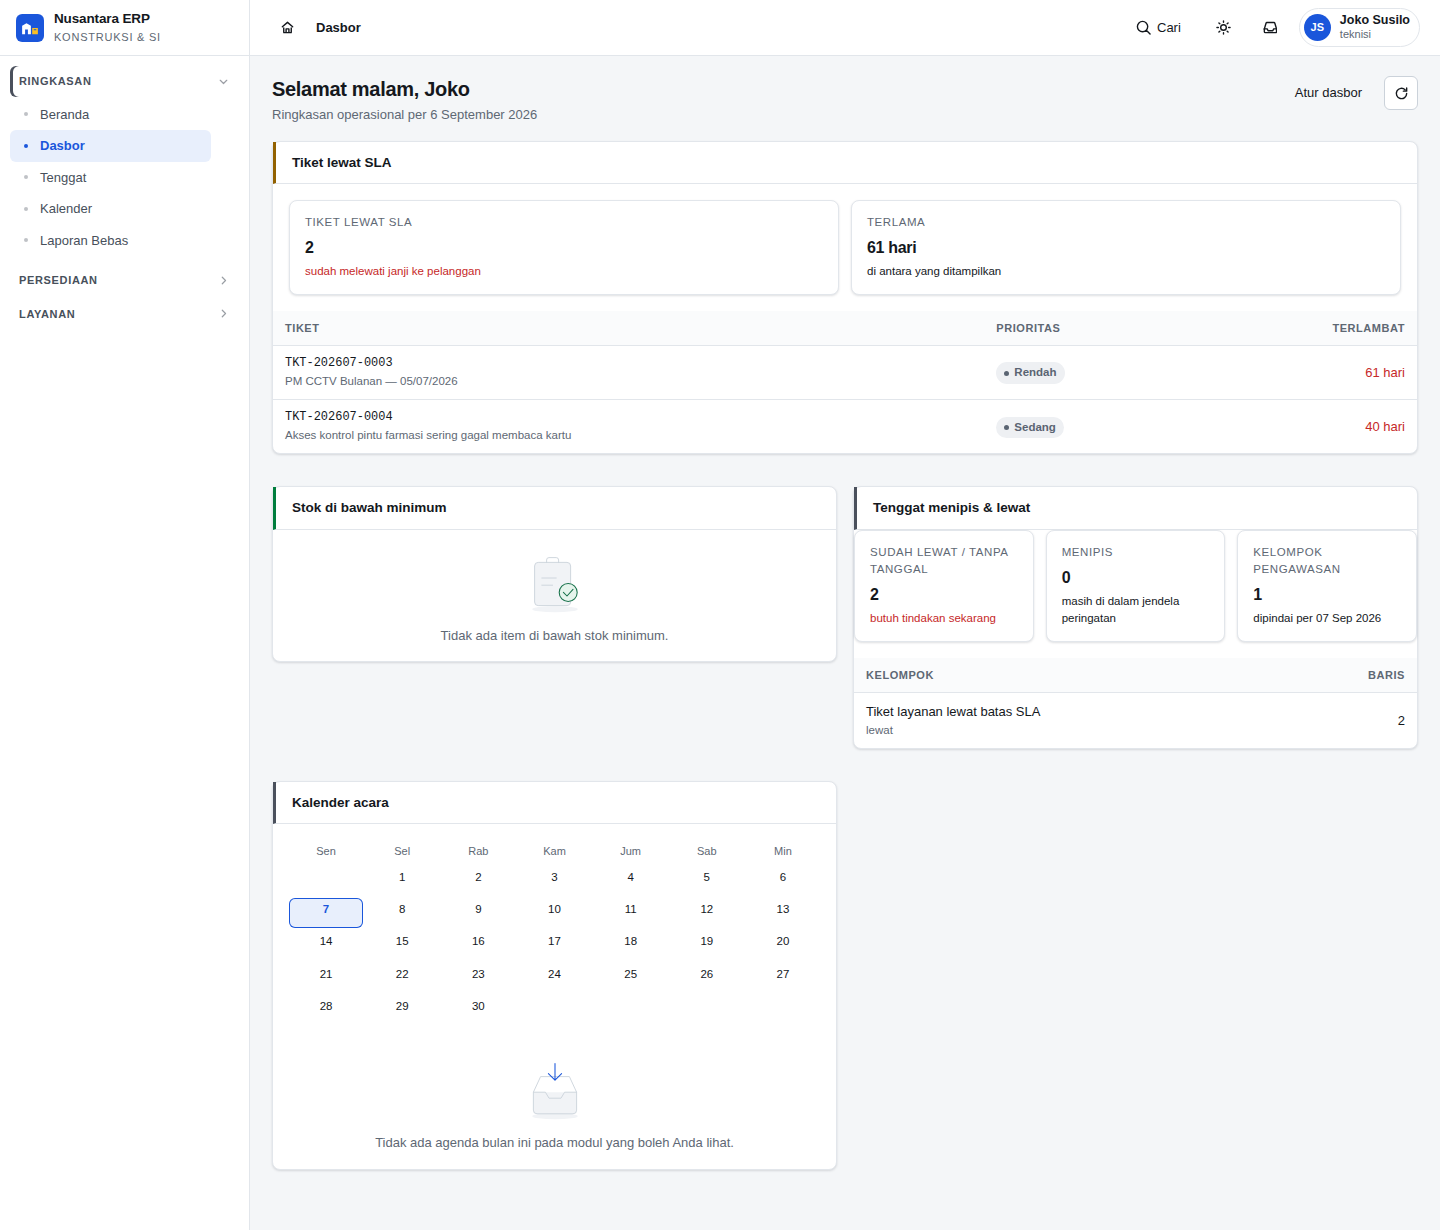
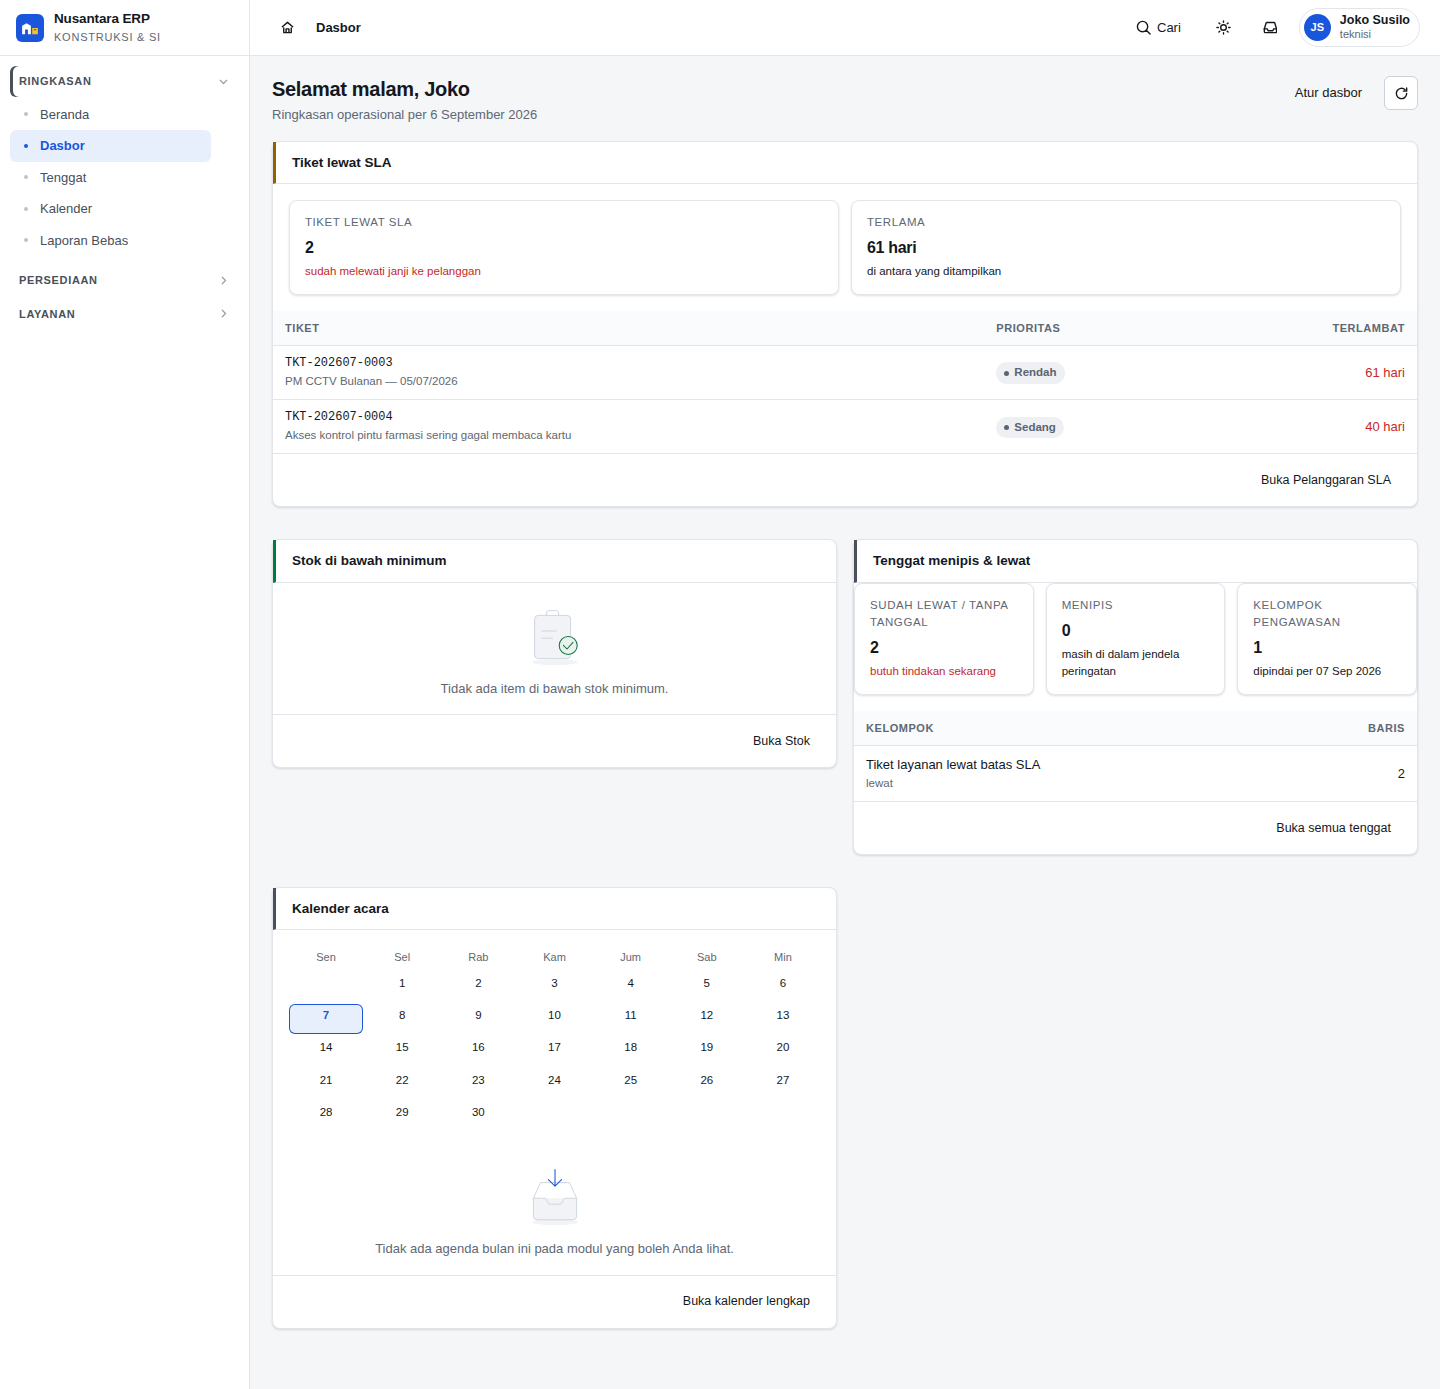
spa: setiap kartu dasbor punya kaki, dan katalog 'route' berhenti jadi metadata mati — 10 dari 19 kartu tidak menggambar .card-foot (kalender tidak pernah, ringkasan-uang tidak pernah, lima lagi hanya saat daftarnya panjang, tiga lagi menjatuhkannya justru saat kosong); uji katalog kini menuntut foo

diff --git a/public/app/js/views/widgets/ringkasan-uang.js b/public/app/js/views/widgets/ringkasan-uang.js
@@ -17,7 +17,7 @@
 import { el } from '../../ui.js';
 import * as fmt from '../../format.js';
 import { navigate } from '../../router.js';
-import { safe, failure, failedStats, statRow, stat } from './kit.js';
+import { safe, failure, failedStats, statRow, stat, footLink } from './kit.js';
 
 export async function build({ mineOnly, reload }) {
   const tiles = await safe('core/dashboard/summary', { mine: mineOnly ? 1 : undefined });
@@ -34,7 +34,7 @@ export async function build({ mineOnly, reload }) {
   // yang sama.
   const projectLabel = mineOnly ? 'Proyek saya (berjalan)' : 'Proyek berjalan';
 
-  return el('.card-body', statRow([
+  const body = el('.card-body', statRow([
     tiles.projects
       ? stat(projectLabel, String(tiles.projects.active_count), {
         sub: `Nilai kontrak ${fmt.rupiahShort(Number(tiles.projects.contract_value || 0))}`,
@@ -54,4 +54,20 @@ export async function build({ mineOnly, reload }) {
       })
       : null,
   ]));
+
+  /* SATU pintu yang bisa dicapai papan ketik. Ketiga ubin di atas adalah <div>
+     ber-onClick (kit.stat menambahkan cursor:pointer dan pendengar klik), jadi
+     sampai verifikasi kedua P1-D kartu ini tidak punya satu pun elemen yang
+     bisa di-Tab — dan katalog memberinya route yang tidak pernah dipakai.
+     Kakinya menunjuk blok PERTAMA yang benar-benar dikirim server, supaya
+     peran tanpa prj.view tidak diberi pintu ke layar yang akan menolaknya. */
+  const door = tiles.projects
+    ? { label: 'Semua proyek', route: 'r/projects' }
+    : tiles.ar_invoices
+      ? { label: 'Semua invoice termin', route: 'r/finance/ar-invoices' }
+      : tiles.ap_bills
+        ? { label: 'Semua tagihan vendor', route: 'r/finance/ap-bills' }
+        : null;
+
+  return el('div', [body, door ? footLink(door.label, () => navigate(door.route)) : null]);
 }

diff --git a/public/app/js/views/widgets/tenggat.js b/public/app/js/views/widgets/tenggat.js
@@ -19,7 +19,10 @@ export async function build({ reload }) {
   const meta = payload.meta || {};
 
   if (!findings.length) {
-    return tileEmpty('Tidak ada tenggat yang menipis atau lewat pada modul yang boleh Anda lihat.', 'done');
+    return el('div', [
+      tileEmpty('Tidak ada tenggat yang menipis atau lewat pada modul yang boleh Anda lihat.', 'done'),
+      footLink('Buka semua tenggat', () => navigate('tenggat')),
+    ]);
   }
 
   const totalOfTier = (tier) => findings.filter((f) => f.tier === tier).reduce((sum, f) => sum + f.count, 0);
@@ -51,6 +54,12 @@ export async function build({ reload }) {
       top,
       () => navigate('tenggat'),
     ),
-    findings.length > top.length ? footLink(`Lihat semua (${findings.length} kelompok)`, () => navigate('tenggat')) : null,
+    /* SELALU ada kakinya, bukan hanya saat daftarnya terpotong: sampai
+       verifikasi kedua P1-D kartu ini kehilangan satu-satunya pintunya persis
+       ketika kelompoknya lima atau kurang — yaitu keadaan yang paling sering. */
+    footLink(
+      findings.length > top.length ? `Lihat semua (${findings.length} kelompok)` : 'Buka semua tenggat',
+      () => navigate('tenggat'),
+    ),
   ]);
 }

diff --git a/public/app/js/views/widgets/kalender.js b/public/app/js/views/widgets/kalender.js
@@ -15,7 +15,7 @@ import { el } from '../../ui.js';
 import * as fmt from '../../format.js';
 import { navigate } from '../../router.js';
 import { KALENDER_DEPTS, ensureKalenderPalette, kalDot } from '../../kalenderpalette.js';
-import { safeList, failure, tileEmpty, failedBody, miniTable } from './kit.js';
+import { safeList, failure, tileEmpty, failedBody, miniTable, footLink } from './kit.js';
 
 export async function build({ reload, card }) {
   const payload = await safeList('core/calendar');
@@ -145,5 +145,10 @@ export async function build({ reload, card }) {
       : tileEmpty(events.length
         ? 'Tidak ada agenda tersisa bulan ini.'
         : 'Tidak ada agenda bulan ini pada modul yang boleh Anda lihat.', 'inbox'),
+    /* Pintu ke kalender penuh, yang docblock di atas sebut "selalu tersedia"
+       dan yang kartu kalender P1-C memang punya ("Buka kalender lengkap").
+       Sampai verifikasi kedua P1-D berkas ini tidak memanggil footLink satu
+       kali pun, jadi kalimat itu tidak benar untuk satu keadaan pun. */
+    footLink('Buka kalender lengkap', () => navigate('kalender')),
   ]);
 }

diff --git a/public/app/js/views/widgets/ar-aging.js b/public/app/js/views/widgets/ar-aging.js
@@ -19,8 +19,15 @@ export async function build({ reload }) {
      mengirimkannya utuh (laporan ini tidak berhalaman). Lima batang nol di
      atas angka Rp 0 bukan kebohongan, hanya kebisingan; kalimatnya lebih
      berguna. */
+  /* Kaki kartu IKUT digambar pada keadaan kosong. Justru pada layar yang
+     isinya kosong pembacanya perlu jalan untuk memeriksa — dan sampai
+     verifikasi kedua P1-D `return tileEmpty(...)` mendahului footLink() di
+     sini, sehingga kartu yang kosong tidak punya satu pintu pun. */
   if (!((report && report.rows) || []).length || !Object.keys(buckets).length) {
-    return tileEmpty('Tidak ada dokumen piutang terbuka.', 'done');
+    return el('div', [
+      tileEmpty('Tidak ada dokumen piutang terbuka.', 'done'),
+      footLink('Buka umur piutang', () => navigate('reports?tab=ar-aging')),
+    ]);
   }
 
   const total = Number(report.total_outstanding || 0);

diff --git a/public/app/js/views/widgets/ap-aging.js b/public/app/js/views/widgets/ap-aging.js
@@ -21,8 +21,14 @@ export async function build({ reload }) {
      mengirimkannya utuh (laporan ini tidak berhalaman). Lima batang nol di
      atas angka Rp 0 bukan kebohongan, hanya kebisingan; kalimatnya lebih
      berguna. */
+  /* Kaki kartu IKUT digambar pada keadaan kosong — alasan yang sama dengan
+     ar-aging: layar yang kosong justru yang paling perlu diperiksa
+     (verifikasi kedua P1-D). */
   if (!((report && report.rows) || []).length || !Object.keys(buckets).length) {
-    return tileEmpty('Tidak ada tagihan vendor terbuka.', 'done');
+    return el('div', [
+      tileEmpty('Tidak ada tagihan vendor terbuka.', 'done'),
+      footLink('Buka umur hutang', () => navigate('reports?tab=ap-aging')),
+    ]);
   }
 
   const total = Number(report.total_outstanding || 0);

diff --git a/public/app/js/views/widgets/pajak.js b/public/app/js/views/widgets/pajak.js
@@ -18,7 +18,13 @@ export async function build({ reload }) {
   // api.get membuka amplop `data`, jadi yang kembali sudah berupa baris.
   const rows = await safe('finance/tax-obligations', { year, per_page: 60 });
   if (failure(rows)) return failedBody(failure(rows), reload);
-  if (!rows.length) return tileEmpty(`Belum ada baris kewajiban masa ${year}.`);
+  // Kaki kartu IKUT digambar pada keadaan kosong (verifikasi kedua P1-D).
+  if (!rows.length) {
+    return el('div', [
+      tileEmpty(`Belum ada baris kewajiban masa ${year}.`),
+      footLink('Buka kalender pajak', () => navigate('kalender-pajak')),
+    ]);
+  }
 
   const today = new Date().toISOString().slice(0, 10);
   const belum = rows.filter((row) => row.status === 'belum');

diff --git a/public/app/js/views/widgets/sla-tiket.js b/public/app/js/views/widgets/sla-tiket.js
@@ -52,6 +52,10 @@ export async function build({ reload }) {
       (row) => navigate(`d/servicedesk/tickets/${row.id}`),
       { empty: { kind: 'done', message: 'Tidak ada tiket yang melewati SLA.' } },
     ),
-    total > tickets.length ? footLink(`Lihat semua (${total})`, () => navigate('sla-breaches')) : null,
+    /* SELALU ada kakinya. Bentuk `N > M ? footLink(...) : null` membuang
+       satu-satunya pintu kartu ini persis ketika daftarnya PENDEK — yaitu
+       keadaan yang paling sering, dan keadaan yang paling perlu diperiksa
+       (verifikasi kedua P1-D: 10 dari 19 kartu tanpa .card-foot). */
+    footLink(total > tickets.length ? `Lihat semua (${total})` : 'Buka Pelanggaran SLA', () => navigate('sla-breaches')),
   ]);
 }

diff --git a/public/app/js/views/widgets/ncr.js b/public/app/js/views/widgets/ncr.js
@@ -51,6 +51,10 @@ export async function build({ reload }) {
       (row) => navigate(`d/quality/ncr/${row.id}`),
       { empty: { kind: 'done', message: 'Tidak ada NCR yang terbuka.' } },
     ),
-    total > rows.length ? footLink(`Lihat semua (${total})`, () => navigate('r/quality/ncr')) : null,
+    /* SELALU ada kakinya. Bentuk `N > M ? footLink(...) : null` membuang
+       satu-satunya pintu kartu ini persis ketika daftarnya PENDEK — yaitu
+       keadaan yang paling sering, dan keadaan yang paling perlu diperiksa
+       (verifikasi kedua P1-D: 10 dari 19 kartu tanpa .card-foot). */
+    footLink(total > rows.length ? `Lihat semua (${total})` : 'Buka NCR', () => navigate('r/quality/ncr')),
   ]);
 }

diff --git a/public/app/js/views/widgets/stok-minimum.js b/public/app/js/views/widgets/stok-minimum.js
@@ -31,6 +31,10 @@ export async function build({ reload }) {
       () => navigate('stock'),
       { empty: { kind: 'done', message: 'Tidak ada item di bawah stok minimum.' } },
     ),
-    rows.length > worst.length ? footLink(`Lihat semua (${rows.length})`, () => navigate('stock')) : null,
+    /* SELALU ada kakinya. Bentuk `N > M ? footLink(...) : null` membuang
+       satu-satunya pintu kartu ini persis ketika daftarnya PENDEK — yaitu
+       keadaan yang paling sering, dan keadaan yang paling perlu diperiksa
+       (verifikasi kedua P1-D: 10 dari 19 kartu tanpa .card-foot). */
+    footLink(rows.length > worst.length ? `Lihat semua (${rows.length})` : 'Buka Stok', () => navigate('stock')),
   ]);
 }

diff --git a/public/app/js/views/widgets/inbox.js b/public/app/js/views/widgets/inbox.js
@@ -62,6 +62,10 @@ export async function build({ reload }) {
           el('div', { text: `Gagal dimuat: ${failed.join(', ')}. Daftar ini belum lengkap.` }),
         ]))
       : null,
-    total > PREVIEW ? footLink(`Lihat semua (${total})`, () => navigate('tugas')) : null,
+    /* SELALU ada kakinya. Bentuk `N > M ? footLink(...) : null` membuang
+       satu-satunya pintu kartu ini persis ketika daftarnya PENDEK — yaitu
+       keadaan yang paling sering, dan keadaan yang paling perlu diperiksa
+       (verifikasi kedua P1-D: 10 dari 19 kartu tanpa .card-foot). */
+    footLink(total > PREVIEW ? `Lihat semua (${total})` : 'Buka Tugas Saya', () => navigate('tugas')),
   ]);
 }

diff --git a/tests/Feature/Core/DashboardWidgetRegistryTest.php b/tests/Feature/Core/DashboardWidgetRegistryTest.php
@@ -106,6 +106,64 @@ class DashboardWidgetRegistryTest extends ErpTestCase
         }
     }
 
+    /**
+     * `route` katalog bukan metadata mati: setiap widget PUNYA kaki kartu, dan
+     * kaki itu menuju rute yang katalognya sebut.
+     *
+     * Verifikasi kedua P1-D: tidak satu baris JavaScript pun membaca
+     * `widget.route` — setiap kaki menuliskan sasarannya sendiri — sehingga 19
+     * string yang dipaku uji di atas bukan string yang dikapalkan. Sekaligus
+     * dua widget tidak menggambar kaki sama sekali (kalender, ringkasan-uang)
+     * walau katalog memberi keduanya route, dan tiga lagi menjatuhkan kakinya
+     * justru pada keadaan KOSONG — layar yang paling perlu diperiksa.
+     *
+     * Yang dijaga di sini karena itu dua hal yang bisa dijaga tanpa runtime JS:
+     *  1. setiap berkas widget memanggil footLink();
+     *  2. sedikitnya satu `navigate('…')` di berkas itu MULAI DENGAN route
+     *     katalognya — jadi `reports?tab=ar-aging` sah untuk route `reports`
+     *     (tautan dalam ke tab layar yang sama), sementara route yang tidak
+     *     pernah disentuh berkasnya jatuh.
+     */
+    public function test_every_widget_draws_a_foot_that_goes_where_the_catalogue_says(): void
+    {
+        $checked = 0;
+
+        foreach ($this->entries() as $entry) {
+            $this->assertSame(1, preg_match("/route: '([^']+)'/", $entry['block'], $found),
+                "Entri katalog [{$entry['id']}] tidak menyebut route.");
+            $route = $found[1];
+
+            $path = public_path('app/js/views/widgets/'.$entry['id'].'.js');
+            $this->assertFileExists($path);
+            $source = (string) file_get_contents($path);
+
+            $this->assertStringContainsString('footLink(', $source, sprintf(
+                'Widget [%s] tidak menggambar kaki kartu satu kali pun, jadi katalognya menjanjikan pintu '
+                .'("route: %s") yang tidak ada di layar mana pun.',
+                $entry['id'], $route,
+            ));
+
+            preg_match_all("/navigate\('([^']+)'/", $source, $targets);
+            $this->assertNotSame([], $targets[1], "Widget [{$entry['id']}] tidak menaut ke mana pun.");
+
+            $hits = array_filter(
+                $targets[1],
+                static fn (string $target): bool => $target === $route || str_starts_with($target, $route.'?'),
+            );
+
+            $this->assertNotSame([], $hits, sprintf(
+                'Widget [%s] menaut ke [%s] sementara katalognya menyebut route [%s]. Salah satunya salah, dan '
+                .'yang dipaku uji adalah katalognya — jadi selama ini 19 string route dipaku tanpa satu pun '
+                .'benar-benar dikapalkan.',
+                $entry['id'], implode(', ', array_unique($targets[1])), $route,
+            ));
+
+            $checked++;
+        }
+
+        $this->assertSame(19, $checked, 'Jumlah widget yang disapu berubah — sapuan ini kehilangan sasarannya.');
+    }
+
     /** Prefix modul setiap widget adalah grup NAV sungguhan (aksen + pengelompokan). */
     public function test_every_widget_names_a_real_module_prefix(): void
     {

diff --git a/docs/bukti-uji/harness-playwright.py b/docs/bukti-uji/harness-playwright.py
@@ -3322,6 +3322,12 @@ DASH_CARDS = """() => [...document.querySelectorAll('.dash-grid .card.widget')].
     span: getComputedStyle(c).gridColumnEnd,
     title: (c.querySelector('.card-head h2') || {}).innerText || null,
     body: ((c.querySelector('.widget-body') || {}).innerText || '').trim(),
+    // Kaki kartu = pintu ke layar yang memuat angka ini secara lengkap. Sebuah
+    // kartu tanpa kaki adalah angka tanpa cara memeriksanya, dan itu paling
+    // menyakitkan justru pada kartu yang isinya kosong (verifikasi kedua P1-D:
+    // 10 dari 19 kartu tanpa .card-foot, termasuk seluruh kartu umur piutang/
+    // hutang/pajak yang sedang kosong).
+    foot: ((c.querySelector('.card-foot') || {}).innerText || '').trim() || null,
 }))"""
 
 
@@ -3396,6 +3402,8 @@ def s23(pg):
                 # Kartu yang badannya kosong tidak pernah benar: sebuah widget
                 # menggambar angkanya, keadaan kosongnya, atau kalimat gagalnya.
                 "empty_bodies": [c["id"] for c in cards if len(c["body"]) < 3],
+                # …dan kartu tanpa KAKI adalah angka tanpa cara memeriksanya.
+                "cards_without_foot": [c["id"] for c in cards if not c["foot"]],
             }
             # Batch 4 membatasi WIDGET, bukan permintaan: satu widget boleh
             # mengirim lebih dari satu (hanya `ncr`, yang menjumlah dua status
@@ -3512,6 +3520,7 @@ def s23(pg):
         and not out["rapid_reload"]["empty_bodies_after"]
         and mine["both_filtered"]
         and mine["progres_card_says_mine"]
+        and not any(r["cards_without_foot"] for r in out["roles"].values())
     )
     return out
 
